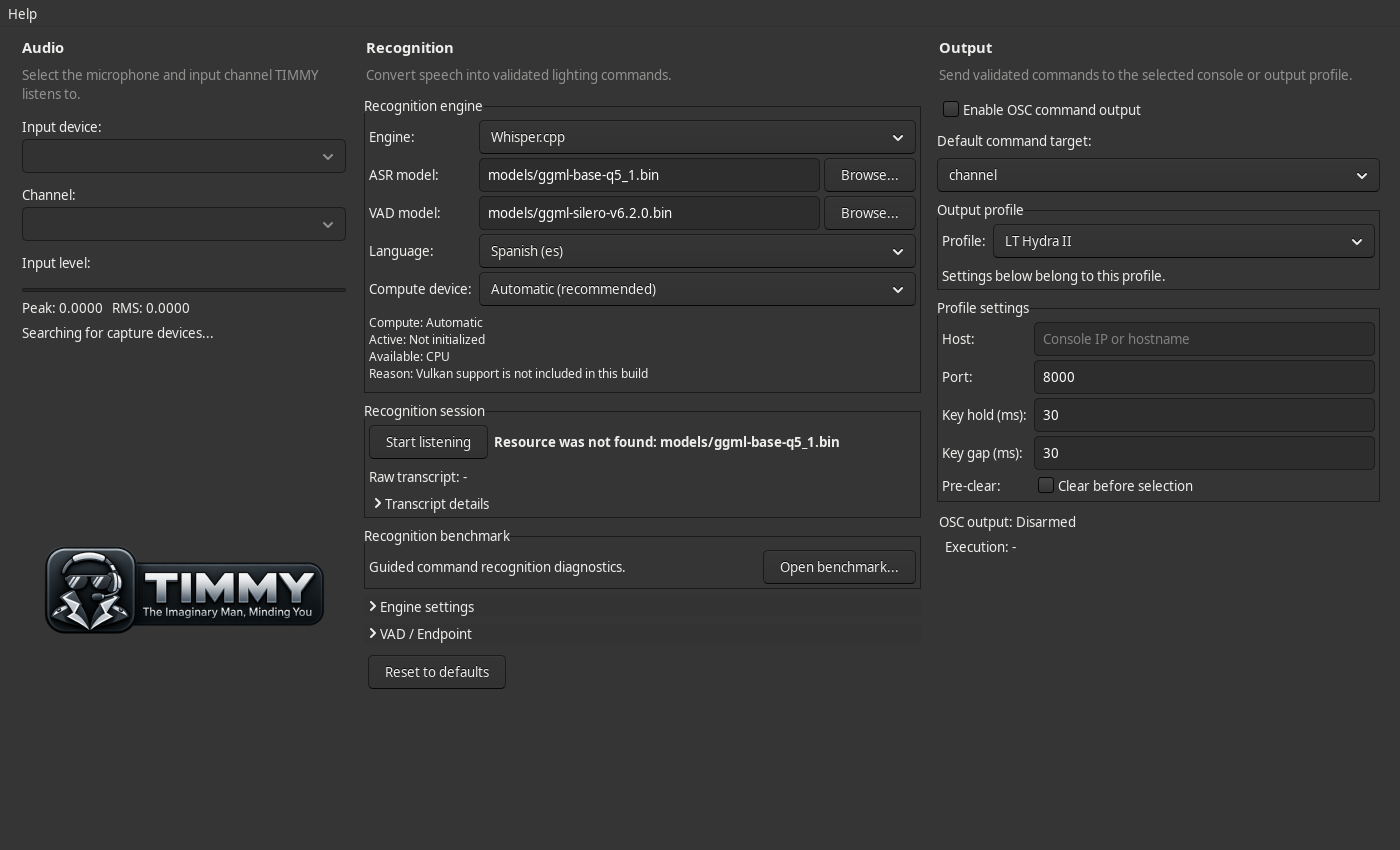
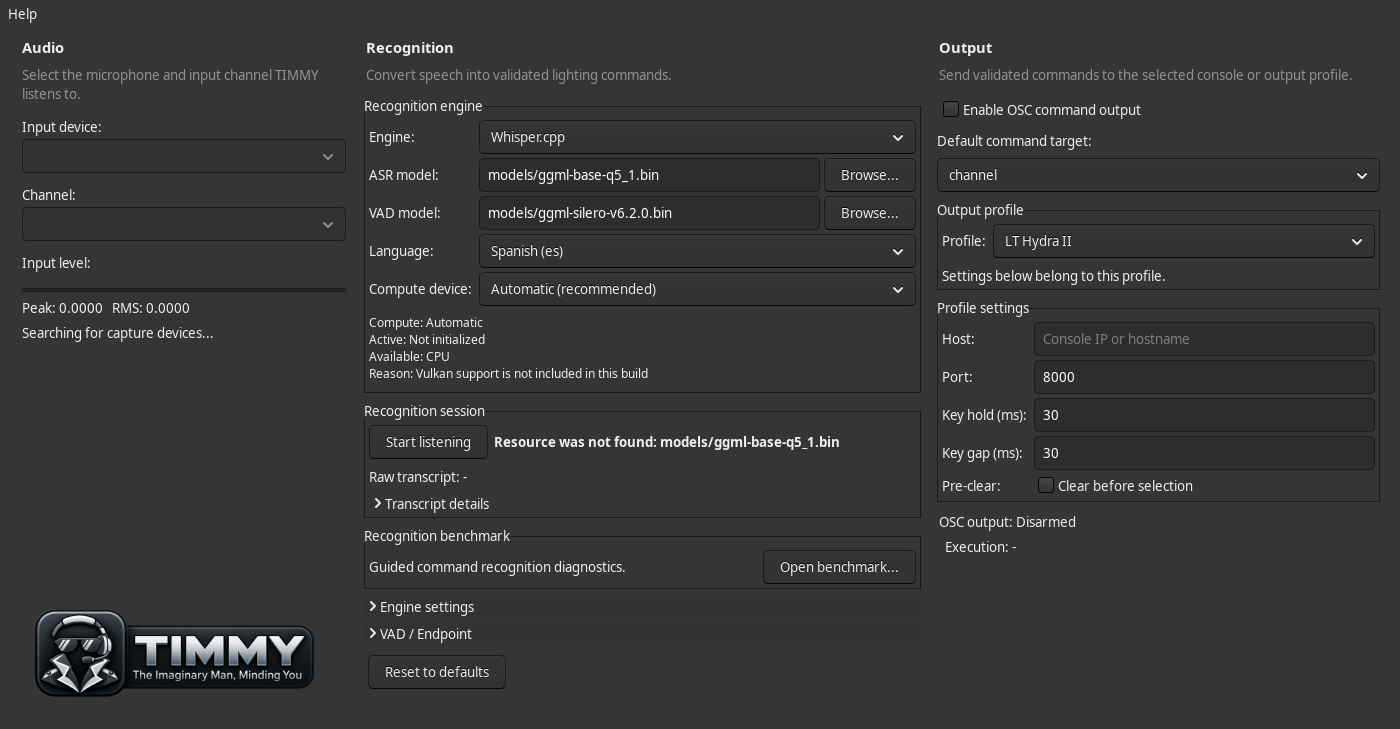
fix(gui): fit initial height to content and anchor audio branding

diff --git a/apps/gui/main_frame.cpp b/apps/gui/main_frame.cpp
@@ -25,6 +25,7 @@
 #include <wx/choice.h>
 #include <wx/collpane.h>
 #include <wx/filedlg.h>
+#include <wx/display.h>
 #include <wx/filename.h>
 #include <wx/gauge.h>
 #include <wx/menu.h>
@@ -349,6 +350,27 @@ namespace timmy::gui {
         updateComputeStatus();
         Layout();
         panel->Layout();
+        // Scrolled windows advertise a small viewport minimum, not the height
+        // of their controls. Measure the collapsed content after laying it out
+        // at the preferred width, then fit only the initial window height.
+        int contentHeight = 0;
+        for (auto* item : columns->GetChildren())
+        {
+            auto* column = item->GetWindow();
+            contentHeight = std::max(contentHeight,
+                column->GetSizer()->CalcMin().y + 2 * item->GetBorder());
+        }
+        int clientHeight = contentHeight + 12 + FromDIP(16);
+        const int displayIndex = wxDisplay::GetFromWindow(this);
+        if (displayIndex != wxNOT_FOUND)
+        {
+            const auto workArea = wxDisplay(static_cast<unsigned int>(displayIndex)).GetClientArea();
+            clientHeight = std::min(clientHeight,
+                workArea.height - (GetSize().y - GetClientSize().y));
+        }
+        SetClientSize(GetClientSize().x, clientHeight);
+        Layout();
+        panel->Layout();
         Centre();
     }
 
@@ -419,12 +441,10 @@ namespace timmy::gui {
             }
             event.Skip();
         });
-        // Center the fixed-size artwork in the unused space below the audio
-        // controls, rather than anchoring it to the bottom of the window.
+        // Keep the fixed-size artwork at the lower left of the audio column.
         sizer->AddStretchSpacer();
         sizer->Add(createBrandingHeader(panel), 0,
-            wxALIGN_CENTER_HORIZONTAL | wxALL, panel->FromDIP(8));
-        sizer->AddStretchSpacer();
+            wxALIGN_LEFT | wxALL, panel->FromDIP(8));
         panel->SetSizer(sizer);
         columns->Add(panel, 3, wxEXPAND | wxALL, 4);
     }

diff --git a/tests/gui_recognition_controls_test.cpp b/tests/gui_recognition_controls_test.cpp
@@ -625,6 +625,10 @@ namespace {
         REQUIRE(captureStatus->GetSize().y >= captureStatus->GetCharHeight());
         REQUIRE(columns[0]->GetVirtualSize().x <= columns[0]->GetClientSize().x);
         REQUIRE(columns[1]->GetVirtualSize().y <= columns[1]->GetClientSize().y);
+        int tallestContent = 0;
+        for (auto* column : columns)
+            tallestContent = std::max(tallestContent, column->GetSizer()->CalcMin().y);
+        REQUIRE(fixture.frame->GetClientSize().y <= tallestContent + fixture.frame->FromDIP(40));
         auto* settingLabel = wxWindow::FindWindowByLabel("Threads", fixture.frame);
         REQUIRE(settingLabel != nullptr);
         auto* propertyGrid = dynamic_cast<wxFlexGridSizer*>(settingLabel->GetContainingSizer());
